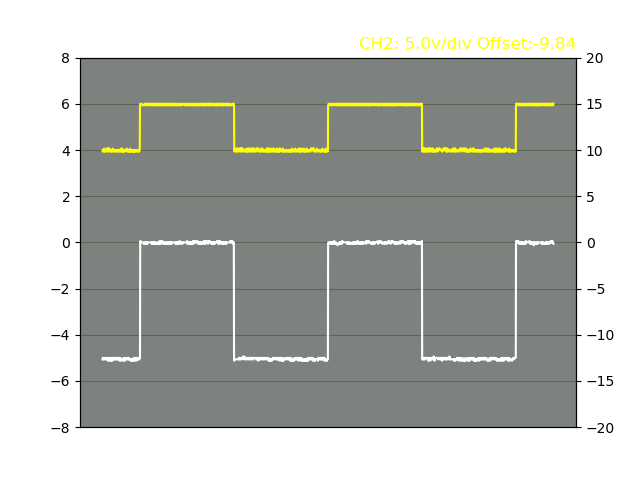
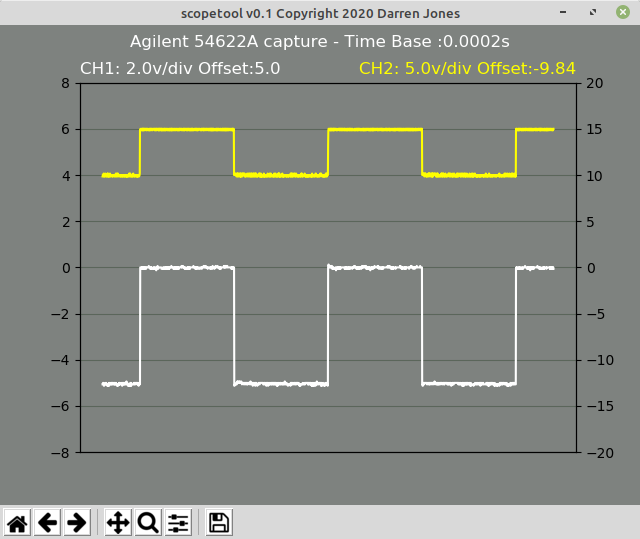
Trying to fix images

diff --git a/README.rst b/README.rst
@@ -42,7 +42,7 @@ Screenshots
 
 The scope
 
-.. image:: ./images/scope_photo.png
+.. image:: ./images/scope_photo.jpg
 
 And corresponding capture
 
